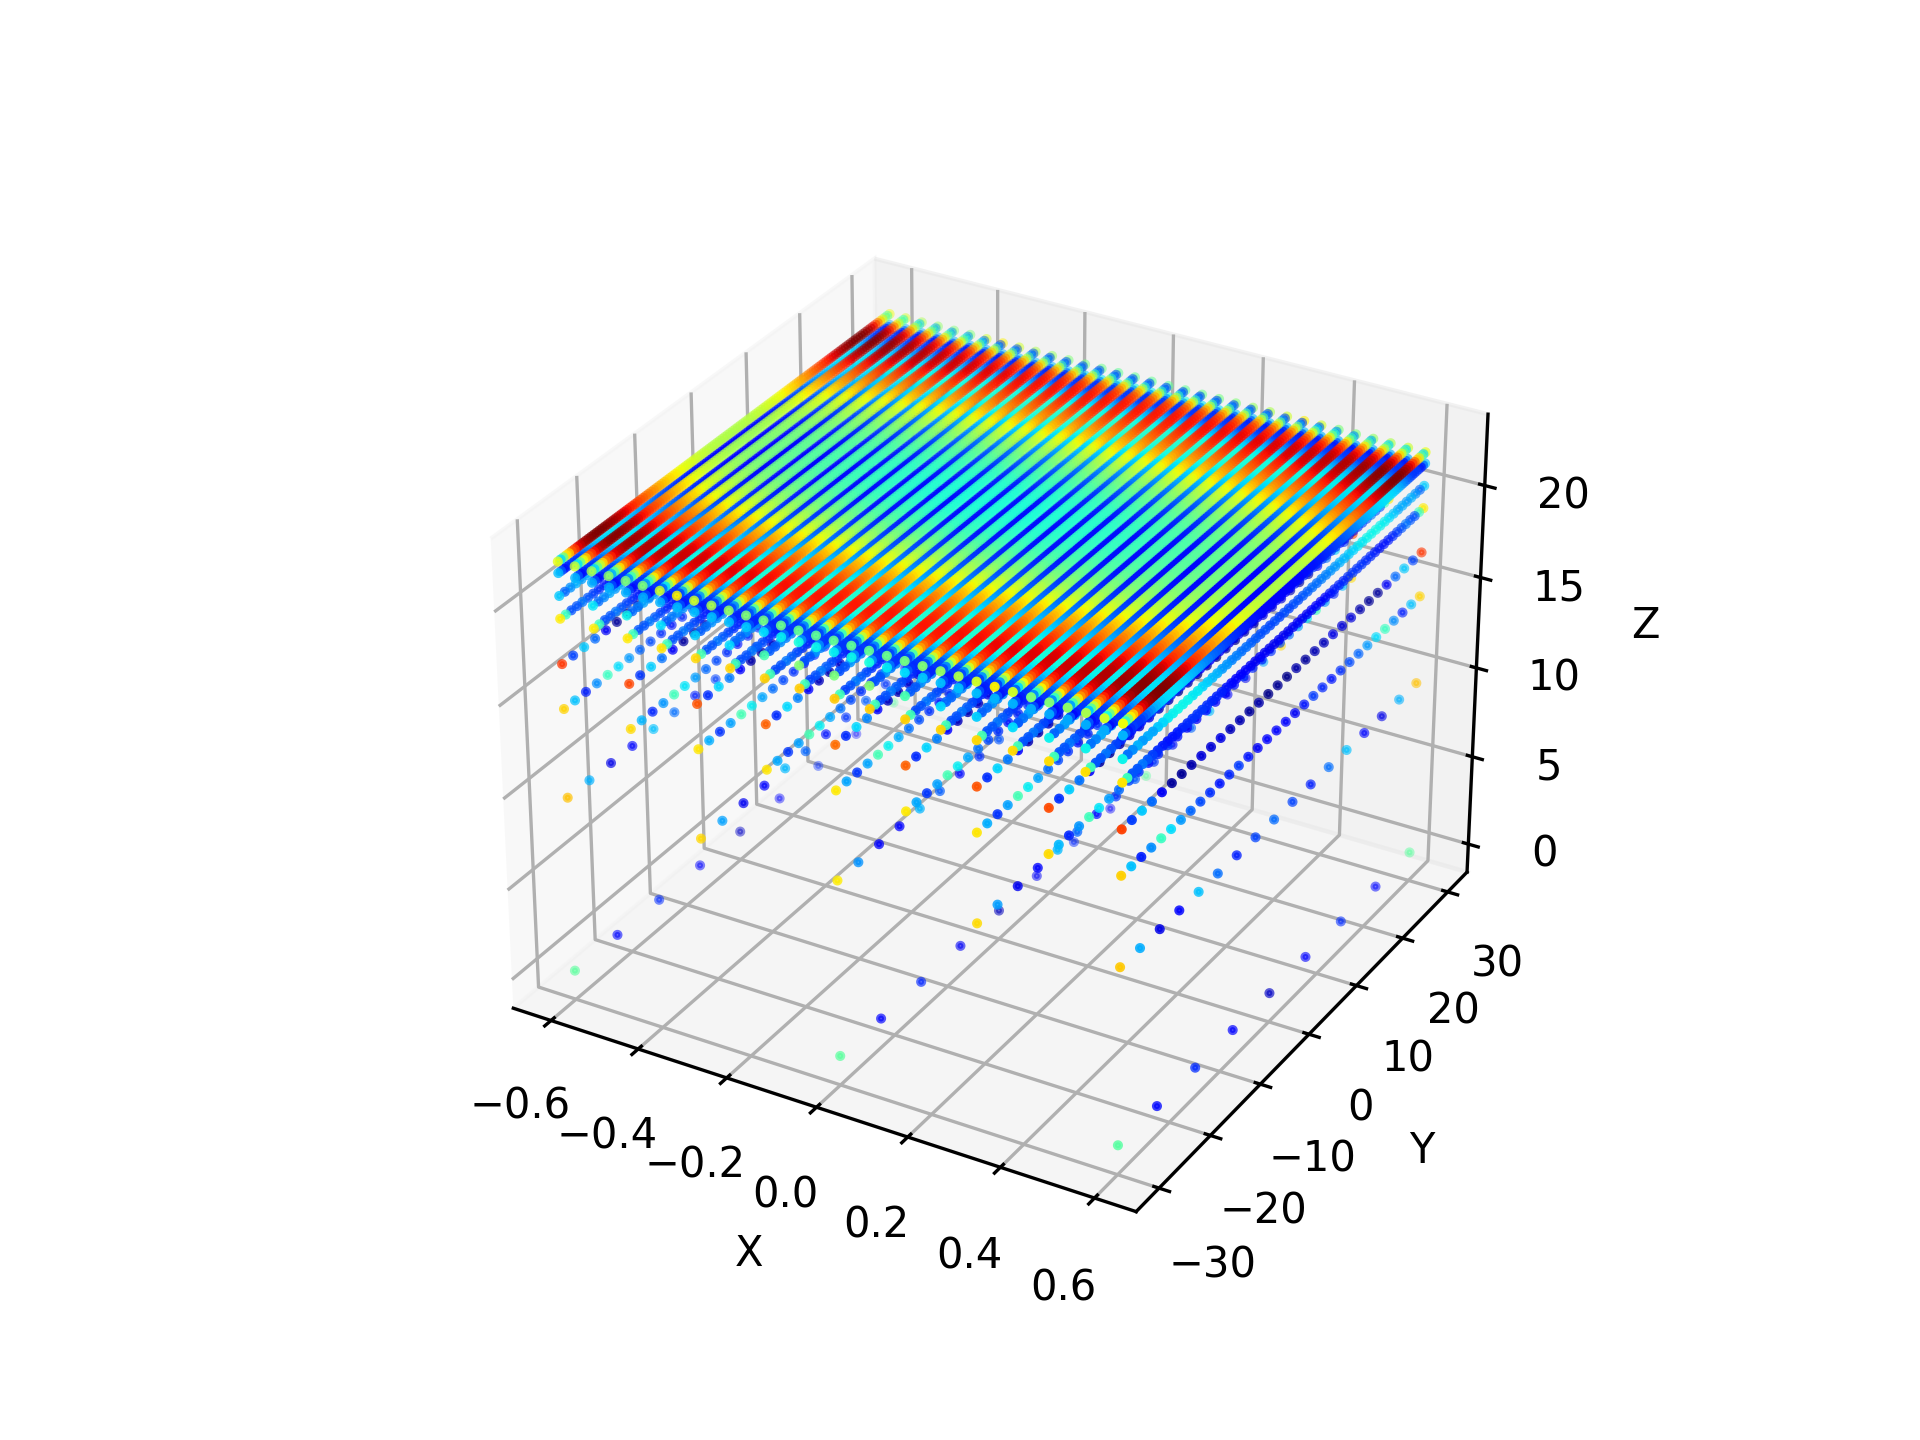
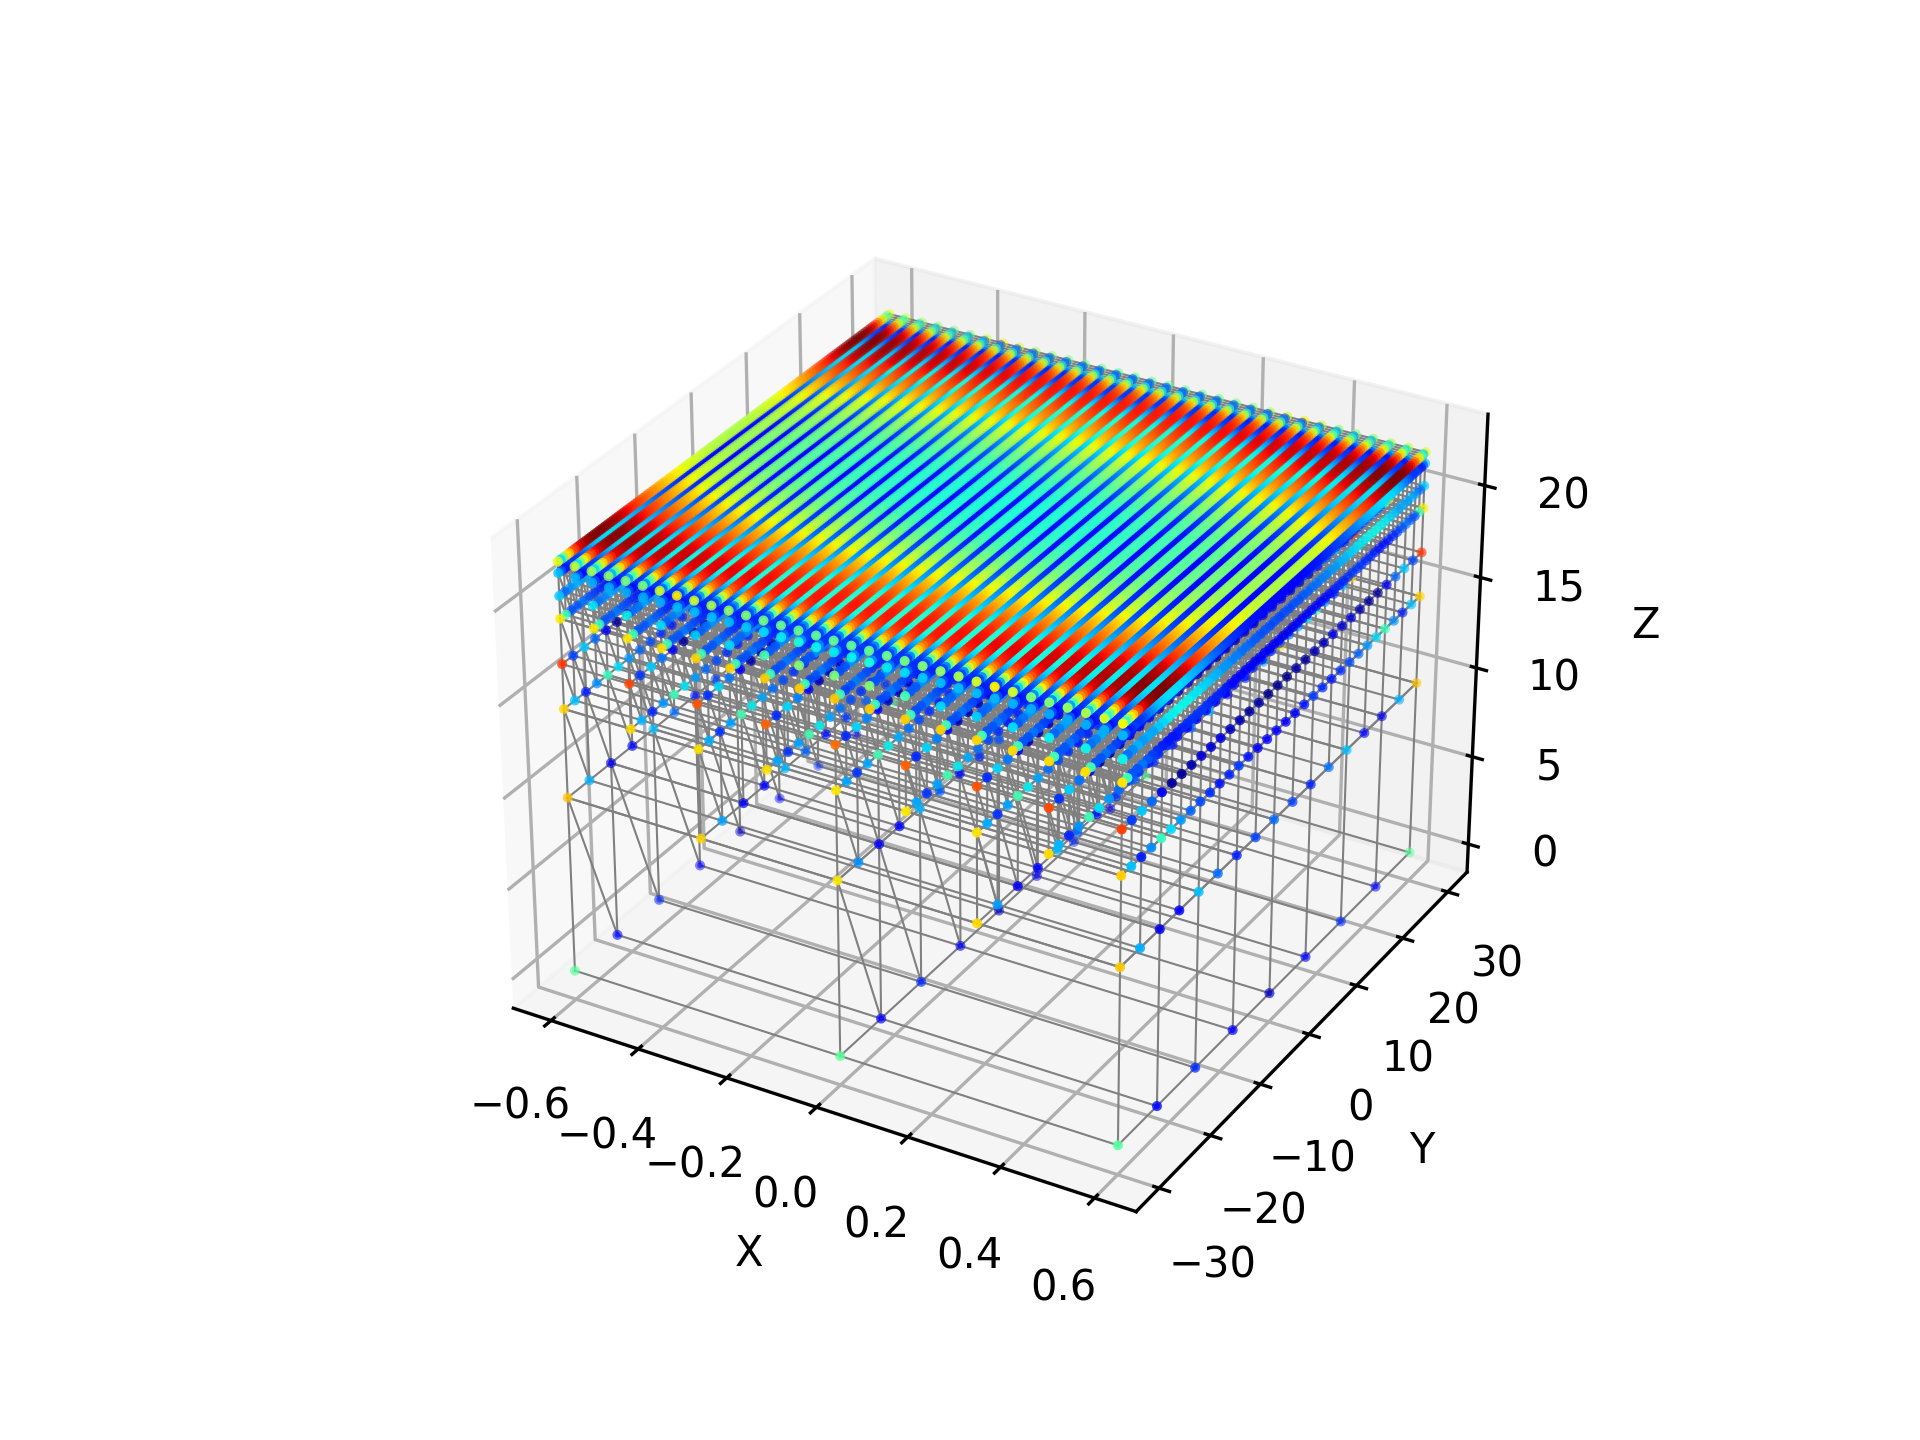
visualization

diff --git a/am/visualize.py b/am/visualize.py
@@ -1,20 +1,68 @@
 #
 import torch
 import numpy as np
-import open3d as o3d
-import matplotlib.pyplot as plt
+import torch_geometric as pyg
 
 __all__ = [
     'visualize_mpl',
     'visualize_o3d',
-    'make_trimesh',
+    'visualize_tri',
+    'mesh_pyv',
 ]
 
-def visualize_mpl(graph, make_edge=False, cmap='jet'):
-    pos = graph.x.numpy(force=True)
-    val = graph.y.numpy(force=True)
-    # elm = graph.elems.numpy(force=True)
-    edx = graph.edge_index.numpy(force=True).T
+def tri_faces(elems):
+    # break up 6 faces of an hexa8 element into 12 triangles
+    tri_idx = np.array([[0,0,0,0,0,0,6,6,6,6,6,6],
+                        [2,3,7,4,1,5,2,3,1,5,4,7],
+                        [1,2,3,7,5,4,3,7,2,1,5,4]], dtype=int)
+
+    tri_faces = np.zeros([12*elems.shape[0],3], dtype=int)
+    for i, elem in enumerate(elems):
+        tri_faces[i*12:(i+1)*12,:] = elem[tri_idx].T
+
+    return tri_faces
+
+def quad_faces(elems):
+    # break out the 6 faces of an hexa8 element
+    quad_idx = np.array([[0,4,0,1,2,3,],
+                         [1,5,1,2,3,0,],
+                         [2,6,5,6,7,4,],
+                         [3,7,4,5,6,7,]], dtype=int)
+
+    quad_faces = np.zeros([6*elems.shape[0],4], dtype=int)
+    for i, elem in enumerate(elems):
+        quad_faces[i*12:(i+1)*12,:] = elem[quad_idx].T
+
+    return quad_faces
+
+def mesh_pyv(pos: torch.Tensor, elems: torch.Tensor):
+    import pyvista as pv
+
+    PPE = 8 # points per element
+    celltype = pv.CellType.HEXAHEDRON
+    celltypes = np.full(elems.shape[0], celltype, dtype=np.uint8)
+
+    pos = pos.numpy(force=True)   # [Nv, 3]
+    elm = elems.numpy(force=True) # [Ne, PPE]
+
+    NV = pos.shape[0]
+    NE = elm.shape[0]
+
+    points = pos
+    cells  = np.concat((np.full((NE,1), PPE), elm), axis=1)#.ravel()
+    mesh   = pv.UnstructuredGrid(cells, celltypes, points)
+
+    return mesh
+
+def visualize_mpl(
+    pos: torch.Tensor, val: torch.Tensor, edge_index: torch.Tensor,
+    make_edge=True, max_edges=100_000, cmap='jet'
+):
+    import matplotlib.pyplot as plt
+
+    pos = pos.numpy(force=True)
+    val = val.numpy(force=True)
+    edx = edge_index.sort(dim=0).values.unique(dim=1).numpy(force=True).T
 
     fig = plt.figure()
     ax = fig.add_subplot(111, projection='3d')
@@ -29,7 +77,10 @@ def visualize_mpl(graph, make_edge=False, cmap='jet'):
 
     ax.scatter(pos[:,0], pos[:,1], pos[:,2], c=colors, s=2)
     if make_edge:
-        for edge in edx:
+        for (i, edge) in enumerate(edx):
+            if i >= max_edges:
+                print(f"Plotting {max_edges} / {edx.shape[0]} edges.")
+                break
             start, end = edge
             ax.plot([pos[start][0], pos[end][0]],
                     [pos[start][1], pos[end][1]],
@@ -38,33 +89,19 @@ def visualize_mpl(graph, make_edge=False, cmap='jet'):
 
     return fig
 
-def visualize_o3d(graph, imagefile):
-    pos = graph.x.numpy(force=True)
-    val = graph.y.numpy(force=True)
-    elm = graph.elems.numpy(force=True)
-    # edx = graph.edge_index.numpy(force=True)
+def visualize_o3d(
+    pos: torch.Tensor, val: torch.Tensor, elems: torch.Tensor,
+    imagefile: str,
+):
+    import open3d as o3d
 
-    mesh = make_trimesh(pos, elm, val)
+    pos = pos.numpy(force=True)
+    val = val.numpy(force=True)
+    elm = elems.numpy(force=True)
 
-    vis = o3d.visualization.Visualizer()
-    vis.create_window()
-    vis.add_geometry(mesh)
-    # vis.poll_events()
-    # vis.update_renderer()
-    vis.capture_screen_image(imagefile)
-    vis.destroy_window()
-
-    return
-
-def make_trimesh(verts, elems, values, cmap='jet'):
-    tri_idx = np.array([[0,0,0,0,0,0,6,6,6,6,6,6],
-                        [2,3,7,4,1,5,2,3,1,5,4,7],
-                        [1,2,3,7,5,4,3,7,2,1,5,4]], dtype=int)
+    # MESH
+    tris = tri_faces(elems)
     mesh = o3d.geometry.TriangleMesh()
-    tris = np.zeros([12*elems.shape[0],3]).astype(np.int32)
-    for i, elem in enumerate(elems):
-        tris[i*12:(i+1)*12,:] = elem[tri_idx].T#-1
-
     mesh.vertices = o3d.utility.Vector3dVector(verts.astype(float))
     mesh.triangles = o3d.utility.Vector3iVector(tris.astype(np.int32))
 
@@ -74,5 +111,45 @@ def make_trimesh(verts, elems, values, cmap='jet'):
     colors = cmap(values.reshape(-1)) # [Nv, 4]
     mesh.vertex_colors = o3d.utility.Vector3dVector(colors[:,:3].astype(float))
 
-    return mesh
+    # VIS
+    o3d.visualization.webrtc_server.enable_webrtc()
+
+    vis = o3d.visualization.Visualizer()
+    vis.create_window(visible=False)
+    # vis.add_geometry(mesh)
+    # # vis.poll_events()
+    # # vis.update_renderer()
+    # vis.capture_screen_image(imagefile)
+    # vis.destroy_window()
+
+    return
+
+def visualize_tri(
+    pos: torch.Tensor, val: torch.Tensor, elems: torch.Tensor,
+    imagefile: str, cmap='jet'
+):
+    import trimesh
+    import matplotlib.pyplot as plt
+
+    elems = elems.numpy(force=True)
+    faces = tri_faces(elems)
+
+    graph = pyg.data.Data(pos=pos, y=val, face=torch.tensor(faces))
+    mesh  = pyg.utils.to_trimesh(graph)
+
+    cmap = plt.get_cmap(cmap)
+    lb, ub = min(val), max(val)
+    cvals = (val - lb) / (ub - lb)
+    colors = cmap(cvals.reshape(-1)) # [Nv, 4]
+
+    fig = plt.figure()
+    ax = fig.add_subplot(111, projection='3d')
+    ax.plot_trisurf(
+        mesh.vertices[:,0], mesh.vertices[:,1], mesh.vertices[:,2],
+        triangles=mesh.faces,
+        cmap='jet',
+        edgecolor='black', linewidth=0.2,
+    )
+
+    return fig
 

diff --git a/am/dataset.py b/am/dataset.py
@@ -59,7 +59,7 @@ def makegraph(data):
     # get edges
     elems = elems - 1 # fix indexing
 
-    connectivity = [
+    connectivity = [                    # hexa8 elements
         (0, 1), (1, 2), (2, 3), (3, 4), # cube base
         (4, 5), (5, 6), (6, 7), (7, 4), # cube top
         (0, 4), (1, 5), (2, 6), (3, 7), # vertical edges
@@ -74,8 +74,10 @@ def makegraph(data):
             edges.add(edge1)
             edges.add(edge2)
 
-    edge_index = torch.tensor(list(edges)) # [Nedges, 2]
-    edge_index = edge_index.T.contiguous()
+    edge_index = torch.tensor(list(edges))           # [Nedges, 2]
+    edge_index = edge_index.T.contiguous()           # [2, Nedges]
+    edge_index = pyg.utils.coalesce(edge_index)      # remove duplicate edges
+    edge_index = pyg.utils.to_undirected(edge_index) # guarantee bidirectionality
 
     # node attributes
     x = torch.cat([verts], dim=-1)

diff --git a/am/__main__.py b/am/__main__.py
@@ -64,11 +64,14 @@ def train_MGN(device, outdir, resdir, train=True):
     # model.eval()
     # model.load_state_dict(torch.load(modelfile, weights_only=True))
 
-    for i in tqdm(range(5, 20)):
-        graph = dataset[i]
-        print(graph.edge_index.shape[1])
-        fig = am.visualize_mpl(graph, make_edge=False)
-        fig.savefig(os.path.join(resdir, f'data{str(i).zfill(2)}'), dpi=300)
+    # for i in tqdm(range(20)):
+    #     graph = dataset[i]
+    #     # fig = am.visualize_mpl(graph.x, graph.y, graph.edge_index)
+    #     # fig.savefig(os.path.join(resdir, f'data{str(i).zfill(2)}'), dpi=300)
+    #
+    #     mesh = am.mesh_pyv(graph.x, graph.elems)
+    #     mesh.point_data['target'] = graph.y.numpy(force=True)
+    #     mesh.save(os.path.join(resdir, f'data{str(i).zfill(2)}.vtk'))
 
     return
 
